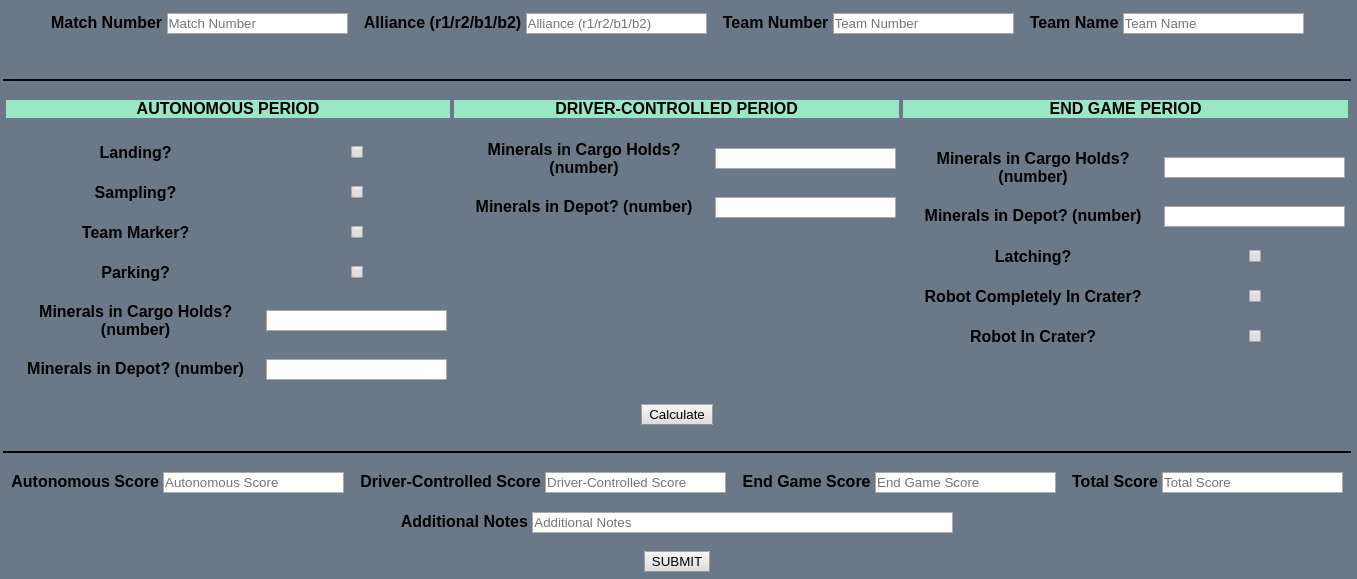
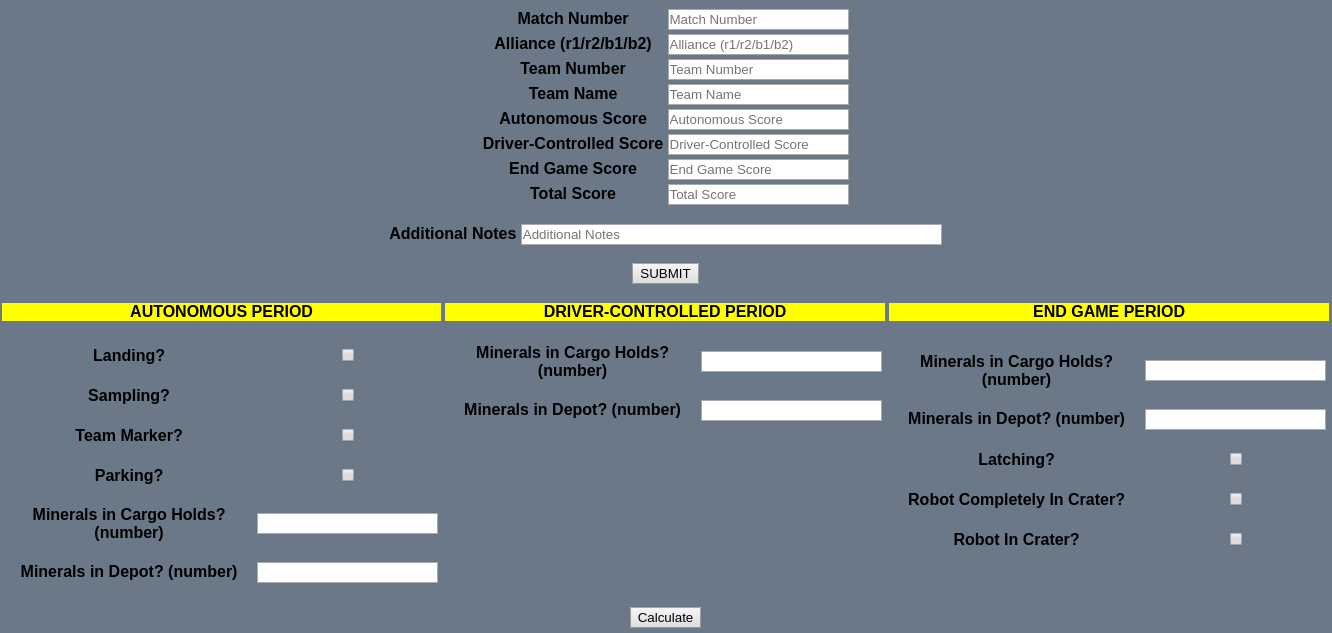
update

diff --git a/public/scouting/scorecalc.html b/public/scouting/scorecalc.html
@@ -17,135 +17,32 @@
 					<tr>
 						<th><b>Match Number</b></th>
 						<th><input type="text" name="matchnumber" placeholder="Match Number" required=""></th>
-						<th></th><th></th><th></th>
+					</tr>
+					<tr>
 						<th><b>Alliance (r1/r2/b1/b2)</b></th>
 						<th><input type="text" name="alliance" placeholder="Alliance (r1/r2/b1/b2)" required=""></th>
-						<th></th><th></th><th></th>
+					</tr>
+					<tr>
 						<th><b>Team Number</b></th>
 						<th><input type="text" name="teamnumber" placeholder="Team Number" required=""></th>
-						<th></th><th></th><th></th>
+					</tr>
+					<tr>
 						<th><b>Team Name</b></th>
 						<th><input type="text" name="teamname" placeholder="Team Name" required=""></th>
 					</tr>
-				</table>
-				<br><hr>
-				<table style="margin:1em auto">
-					<tr>
-						<th><div style="background-color:#9AE7C8"><b>AUTONOMOUS PERIOD</b></div></th>
-						<th><div style="background-color:#9AE7C8"><b>DRIVER-CONTROLLED PERIOD</b></div></th>
-						<th><div style="background-color:#9AE7C8"><b>END GAME PERIOD</b></div></th>
-					</tr>
-					<tr>
-						<th>
-							<table>
-								<tr></tr><tr></tr><tr></tr><tr></tr><tr></tr><tr></tr><tr></tr><tr></tr>
-								<tr>
-									<th>Landing?</th>
-									<th><input type="checkbox" id="auto-land"></th>
-								</tr>
-								<tr></tr><tr></tr><tr></tr><tr></tr><tr></tr><tr></tr><tr></tr><tr></tr>
-								<tr>
-									<th>Sampling?</th>
-									<th><input type="checkbox" id="auto-sampling"></th>	
-								</tr>
-								<tr></tr><tr></tr><tr></tr><tr></tr><tr></tr><tr></tr><tr></tr><tr></tr>
-								<tr>
-									<th>Team Marker?</th>
-									<th><input type="checkbox" id="auto-teammarker"></th>	
-								</tr>
-								<tr></tr><tr></tr><tr></tr><tr></tr><tr></tr><tr></tr><tr></tr><tr></tr>
-								<tr>
-									<th>Parking?</th>
-									<th><input type="checkbox" id="auto-park"></th>	
-								</tr>
-								<tr></tr><tr></tr><tr></tr><tr></tr><tr></tr><tr></tr><tr></tr><tr></tr>
-								<tr>
-									<th>Minerals in Cargo Holds? (number)</th>
-									<th><input type="number" id="auto-mincargo"></th>	
-								</tr>
-								<tr></tr><tr></tr><tr></tr><tr></tr><tr></tr><tr></tr><tr></tr><tr></tr>
-								<tr>
-									<th>Minerals in Depot? (number)</th>
-									<th><input type="number" id="auto-mindepot"></th>	
-								</tr>
-							</table>
-						</th>
-						<th>
-							<table>
-								<tr></tr><tr></tr><tr></tr><tr></tr><tr></tr><tr></tr><tr></tr><tr></tr>
-								<tr>
-									<th>Minerals in Cargo Holds? (number)</th>
-									<th><input type="number" id="driver-mincargo"></th>	
-								</tr>
-								<tr></tr><tr></tr><tr></tr><tr></tr><tr></tr><tr></tr><tr></tr><tr></tr>
-								<tr>
-									<th>Minerals in Depot? (number)</th>
-									<th><input type="number" id="driver-mindepot"></th>	
-								</tr>
-								<tr></tr><tr></tr><tr></tr><tr></tr><tr></tr><tr></tr><tr></tr><tr></tr>
-								<tr></tr><tr></tr><tr></tr><tr></tr><tr></tr><tr></tr><tr></tr><tr></tr>
-								<tr></tr><tr></tr><tr></tr><tr></tr><tr></tr><tr></tr><tr></tr><tr></tr>
-								<tr></tr><tr></tr><tr></tr><tr></tr><tr></tr><tr></tr><tr></tr><tr></tr>
-								<tr></tr><tr></tr><tr></tr><tr></tr><tr></tr><tr></tr><tr></tr><tr></tr>
-								<tr></tr><tr></tr><tr></tr><tr></tr><tr></tr><tr></tr><tr></tr><tr></tr>
-								<tr></tr><tr></tr><tr></tr><tr></tr><tr></tr><tr></tr><tr></tr><tr></tr>
-								<tr></tr><tr></tr><tr></tr><tr></tr><tr></tr><tr></tr><tr></tr><tr></tr>
-								<tr></tr><tr></tr><tr></tr><tr></tr><tr></tr><tr></tr><tr></tr><tr></tr>
-								<tr></tr><tr></tr><tr></tr><tr></tr><tr></tr><tr></tr><tr></tr><tr></tr>
-								<tr></tr><tr></tr>
-							</table>
-						</th>
-						<th>
-							<table>
-								<tr></tr><tr></tr><tr></tr><tr></tr><tr></tr><tr></tr><tr></tr><tr></tr>
-								<tr>
-									<th>Minerals in Cargo Holds? (number)</th>
-									<th><input type="number" id="endgame-mincargo"></th>	
-								</tr>
-								<tr></tr><tr></tr><tr></tr><tr></tr><tr></tr><tr></tr><tr></tr><tr></tr>
-								<tr>
-									<th>Minerals in Depot? (number)</th>
-									<th><input type="number" id="endgame-mindepot"></th>	
-								</tr>
-								<tr></tr><tr></tr><tr></tr><tr></tr><tr></tr><tr></tr><tr></tr><tr></tr>
-								<tr>
-									<th>Latching?</th>
-									<th><input type="checkbox" id="endgame-latch"></th>	
-								</tr>
-								<tr></tr><tr></tr><tr></tr><tr></tr><tr></tr><tr></tr><tr></tr><tr></tr>
-								<tr>
-									<th>Robot Completely In Crater?</th>
-									<th><input type="checkbox" id="endgame-cratercomplete"></th>	
-								</tr>
-								<tr></tr><tr></tr><tr></tr><tr></tr><tr></tr><tr></tr><tr></tr><tr></tr>
-								<tr>
-									<th>Robot In Crater?</th>
-									<th><input type="checkbox" id="endgame-crater"></th>	
-								</tr>
-								<tr></tr><tr></tr><tr></tr><tr></tr><tr></tr><tr></tr><tr></tr><tr></tr>
-								<tr></tr><tr></tr><tr></tr><tr></tr><tr></tr>
-							</table>
-						</th>
-					</tr>
-				</table>
-				<div style="text-align:center">
-					<input type="button" onClick="calculate()" Value="Calculate" /><br><br>
-				</div>
-				<div style="text-align:center">
-					<div style="font-weight:bold;color:red;font-size:20px" id = "autoscoreE"></div><div "font-weight:bold;color:red;font-size:20px" id = "endscoreE"></div>
-				</div>
-				<hr>
-				<table style="margin:1em auto">
 					<tr>
 						<th><b>Autonomous Score</b></th>
 						<th><input type="text" id="autoscore" name="autoscore" placeholder="Autonomous Score" required=""></th>
-						<th></th><th></th><th></th>
+					</tr>
+					<tr>
 						<th><b>Driver-Controlled Score</b></th>
 						<th><input type="text" id="driverscore" name="driverscore" placeholder="Driver-Controlled Score" required=""></th>
-						<th></th><th></th><th></th>
+					</tr>
+					<tr>
 						<th><b>End Game Score</b></th>
 						<th><input type="text" id="endscore" name="endscore" placeholder="End Game Score" required=""></th>
-						<th></th><th></th><th></th>
+					</tr>
+					<tr>
 						<th><b>Total Score</b></th>
 						<th><input type="text" id="total" name="totalscore" placeholder="Total Score" required=""></th>
 					</tr>
@@ -156,6 +53,111 @@
 					<input type="submit" value="SUBMIT">
 				</div>
 			</form>
+		</div>
+		<table style="margin:1em auto">
+			<tr>
+				<th><div style="background-color:yellow"><b>AUTONOMOUS PERIOD</b></div></th>
+				<th><div style="background-color:yellow"><b>DRIVER-CONTROLLED PERIOD</b></div></th>
+				<th><div style="background-color:yellow"><b>END GAME PERIOD</b></div></th>
+			</tr>
+			<tr>
+				<th>
+					<table>
+						<tr></tr><tr></tr><tr></tr><tr></tr><tr></tr><tr></tr><tr></tr><tr></tr>
+						<tr>
+							<th>Landing?</th>
+							<th><input type="checkbox" id="auto-land"></th>
+						</tr>
+						<tr></tr><tr></tr><tr></tr><tr></tr><tr></tr><tr></tr><tr></tr><tr></tr>
+						<tr>
+							<th>Sampling?</th>
+							<th><input type="checkbox" id="auto-sampling"></th>	
+						</tr>
+						<tr></tr><tr></tr><tr></tr><tr></tr><tr></tr><tr></tr><tr></tr><tr></tr>
+						<tr>
+							<th>Team Marker?</th>
+							<th><input type="checkbox" id="auto-teammarker"></th>	
+						</tr>
+						<tr></tr><tr></tr><tr></tr><tr></tr><tr></tr><tr></tr><tr></tr><tr></tr>
+						<tr>
+							<th>Parking?</th>
+							<th><input type="checkbox" id="auto-park"></th>	
+						</tr>
+						<tr></tr><tr></tr><tr></tr><tr></tr><tr></tr><tr></tr><tr></tr><tr></tr>
+						<tr>
+							<th>Minerals in Cargo Holds? (number)</th>
+							<th><input type="number" id="auto-mincargo"></th>	
+						</tr>
+						<tr></tr><tr></tr><tr></tr><tr></tr><tr></tr><tr></tr><tr></tr><tr></tr>
+						<tr>
+							<th>Minerals in Depot? (number)</th>
+							<th><input type="number" id="auto-mindepot"></th>	
+						</tr>
+					</table>
+				</th>
+				<th>
+					<table>
+						<tr></tr><tr></tr><tr></tr><tr></tr><tr></tr><tr></tr><tr></tr><tr></tr>
+						<tr>
+							<th>Minerals in Cargo Holds? (number)</th>
+							<th><input type="number" id="driver-mincargo"></th>	
+						</tr>
+						<tr></tr><tr></tr><tr></tr><tr></tr><tr></tr><tr></tr><tr></tr><tr></tr>
+						<tr>
+							<th>Minerals in Depot? (number)</th>
+							<th><input type="number" id="driver-mindepot"></th>	
+						</tr>
+						<tr></tr><tr></tr><tr></tr><tr></tr><tr></tr><tr></tr><tr></tr><tr></tr>
+						<tr></tr><tr></tr><tr></tr><tr></tr><tr></tr><tr></tr><tr></tr><tr></tr>
+						<tr></tr><tr></tr><tr></tr><tr></tr><tr></tr><tr></tr><tr></tr><tr></tr>
+						<tr></tr><tr></tr><tr></tr><tr></tr><tr></tr><tr></tr><tr></tr><tr></tr>
+						<tr></tr><tr></tr><tr></tr><tr></tr><tr></tr><tr></tr><tr></tr><tr></tr>
+						<tr></tr><tr></tr><tr></tr><tr></tr><tr></tr><tr></tr><tr></tr><tr></tr>
+						<tr></tr><tr></tr><tr></tr><tr></tr><tr></tr><tr></tr><tr></tr><tr></tr>
+						<tr></tr><tr></tr><tr></tr><tr></tr><tr></tr><tr></tr><tr></tr><tr></tr>
+						<tr></tr><tr></tr><tr></tr><tr></tr><tr></tr><tr></tr><tr></tr><tr></tr>
+						<tr></tr><tr></tr><tr></tr><tr></tr><tr></tr><tr></tr><tr></tr><tr></tr>
+						<tr></tr><tr></tr>
+					</table>
+				</th>
+				<th>
+					<table>
+						<tr></tr><tr></tr><tr></tr><tr></tr><tr></tr><tr></tr><tr></tr><tr></tr>
+						<tr>
+							<th>Minerals in Cargo Holds? (number)</th>
+							<th><input type="number" id="endgame-mincargo"></th>	
+						</tr>
+						<tr></tr><tr></tr><tr></tr><tr></tr><tr></tr><tr></tr><tr></tr><tr></tr>
+						<tr>
+							<th>Minerals in Depot? (number)</th>
+							<th><input type="number" id="endgame-mindepot"></th>	
+						</tr>
+						<tr></tr><tr></tr><tr></tr><tr></tr><tr></tr><tr></tr><tr></tr><tr></tr>
+						<tr>
+							<th>Latching?</th>
+							<th><input type="checkbox" id="endgame-latch"></th>	
+						</tr>
+						<tr></tr><tr></tr><tr></tr><tr></tr><tr></tr><tr></tr><tr></tr><tr></tr>
+						<tr>
+							<th>Robot Completely In Crater?</th>
+							<th><input type="checkbox" id="endgame-cratercomplete"></th>	
+						</tr>
+						<tr></tr><tr></tr><tr></tr><tr></tr><tr></tr><tr></tr><tr></tr><tr></tr>
+						<tr>
+							<th>Robot In Crater?</th>
+							<th><input type="checkbox" id="endgame-crater"></th>	
+						</tr>
+						<tr></tr><tr></tr><tr></tr><tr></tr><tr></tr><tr></tr><tr></tr><tr></tr>
+						<tr></tr><tr></tr><tr></tr><tr></tr><tr></tr>
+					</table>
+				</th>
+			</tr>
+		</table>
+		<div style="text-align:center">
+			<input type="button" onClick="calculate()" Value="Calculate" /><br><br>
+		</div>
+		<div style="text-align:center">
+			<div style="font-weight:bold;color:red;font-size:20px" id = "autoscoreE"></div><div "font-weight:bold;color:red;font-size:20px" id = "endscoreE"></div>
 		</div>
 	</body>
 	<script src="js/score.js"></script>
